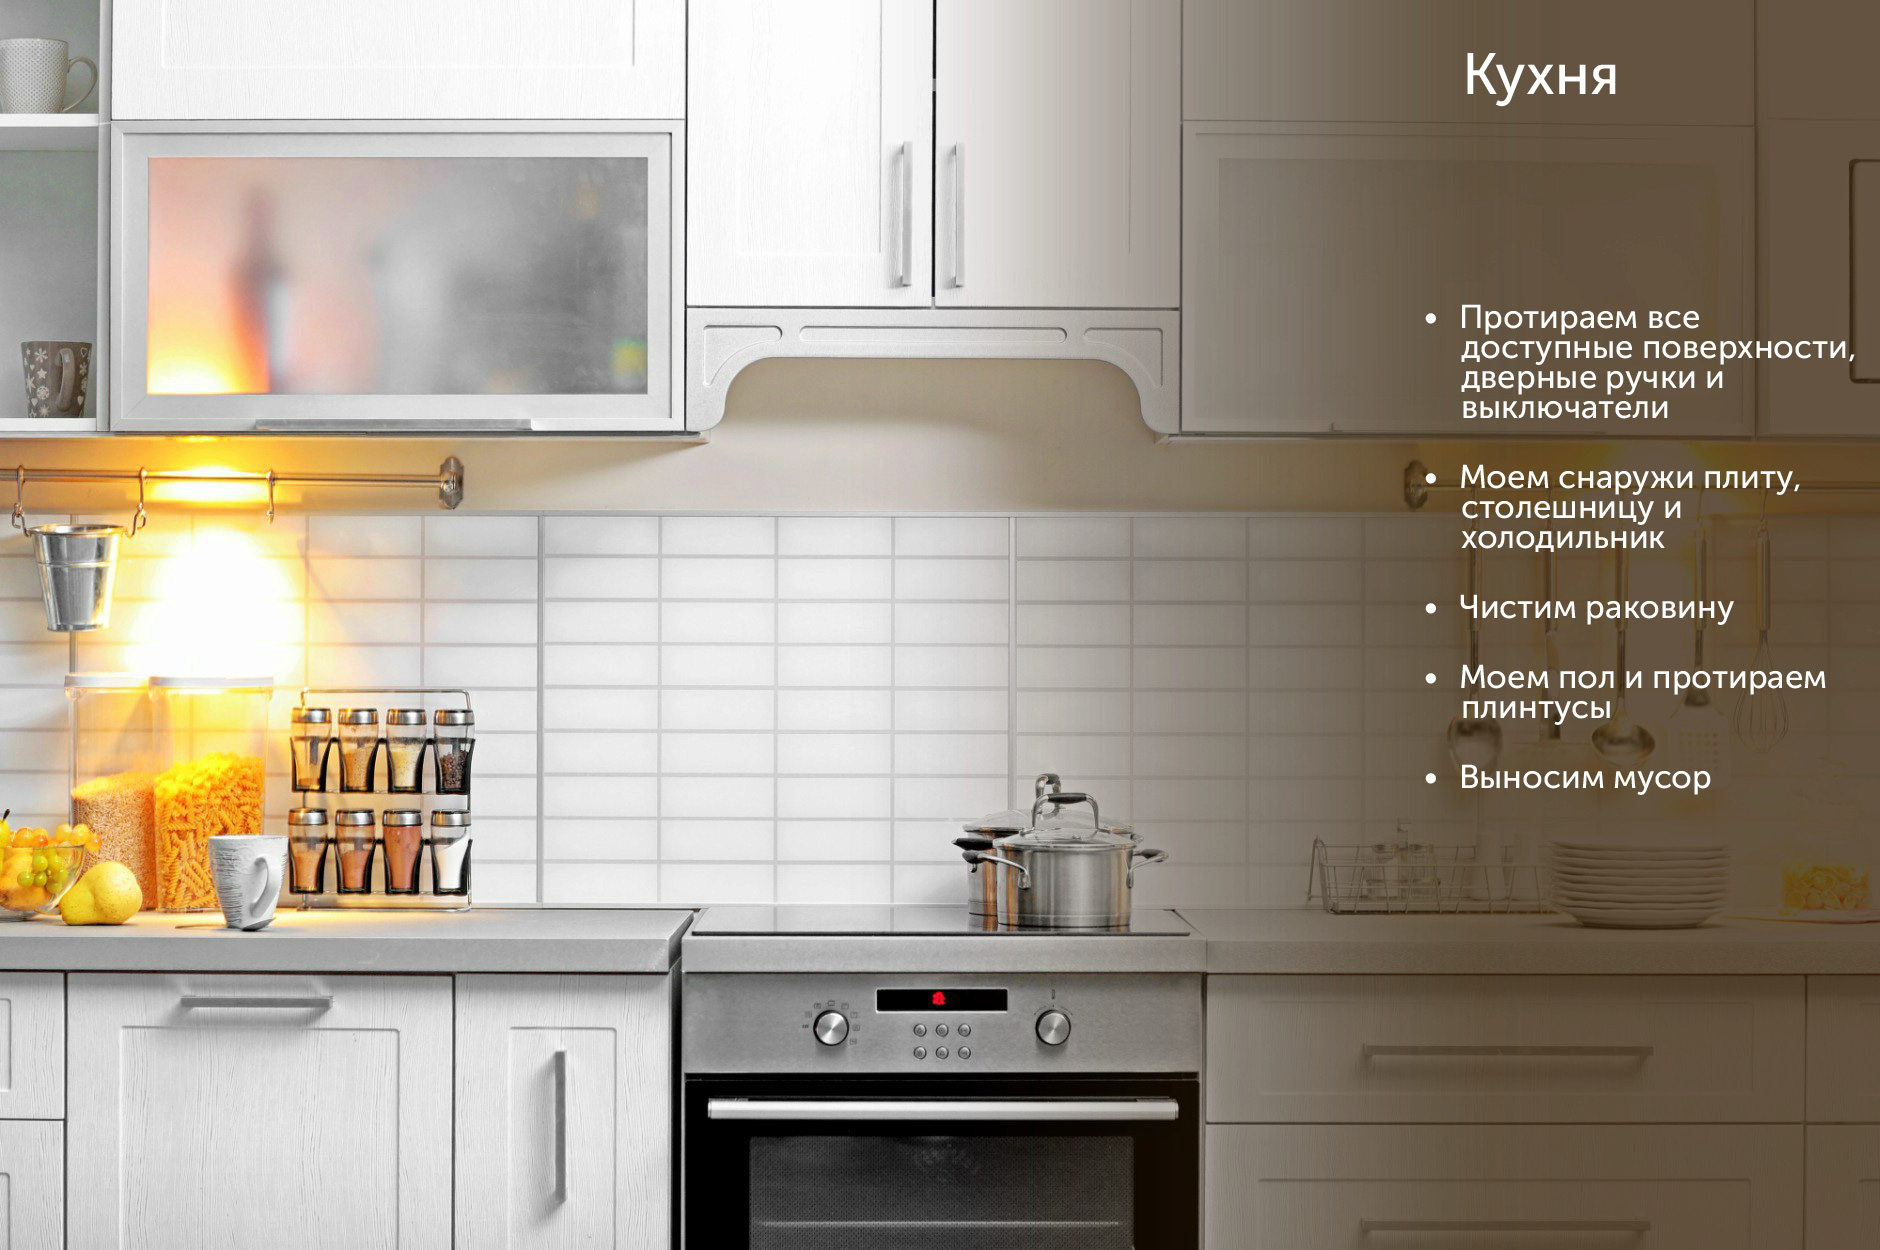
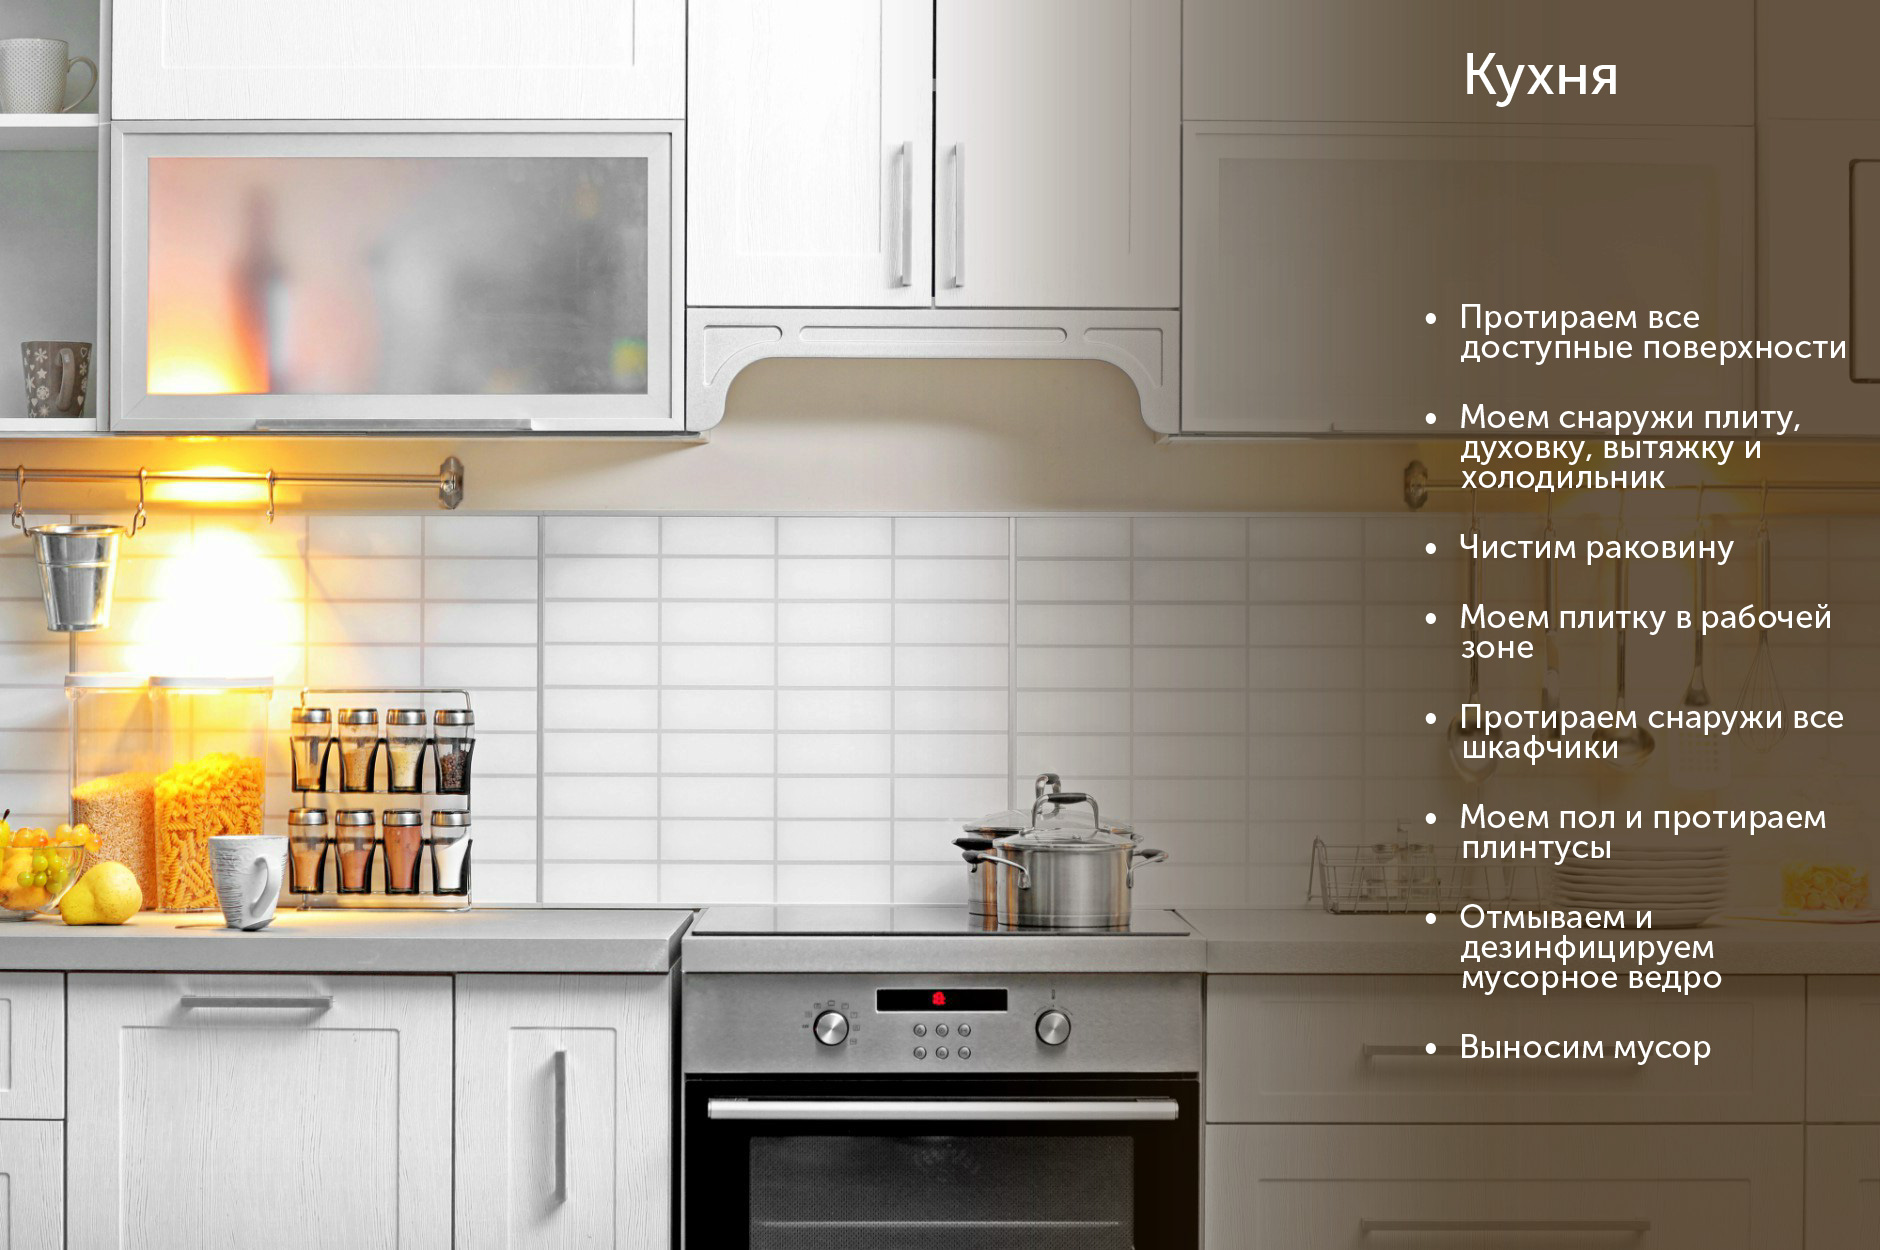
...

Changed region(s): [[0.7713, 0.2496, 0.9872, 0.6864], [0.7713, 0.7176, 0.9255, 0.8424]]

diff --git a/index.html b/index.html
@@ -249,11 +249,10 @@
             </div>
             <div id="slider_text">
                 <ul class="item" data-name="1">
-                    <li>Протираем все доступные поверхности, дверные ручки и выключатели</li>
+                    <li>Протираем все доступные поверхности, в т.ч. батареи, люстры, шкафы, картины, фотографии и проч.</li>
                     <li>Чистим зеркала и стеклянные поверхности</li>
-                    <li>Складываем одежду и расставляем вещи</li>
-                    <li>Застилаем кровать</li>
-                    <li>Моем пол, протираем плинтусы и пылесосим ковёр</li>
+                    <li>Пылесосим ковры</li>
+                    <li>Моем пол и протираем плинтусы</li>
                     <li>Убираем мусор</li>
                 </ul>
                 <ul class="item" data-name="2">
@@ -264,19 +263,23 @@
                     <li>Убираем мусор</li>
                 </ul>
                 <ul class="item" data-name="3">
-                    <li>Протираем все доступные поверхности, дверные ручки и выключатели</li>
+                    <li>Протираем все доступные поверхности</li>
                     <li>Моем и дезинфицируем унитаз</li>
                     <li>Моем ванную (душевую кабину)</li>
+                    <li>Чистим плитку</li>
                     <li>Чистим зеркала и стеклянные поверхности</li>
                     <li>Моем пол, протираем плинтусы и пылесосим коврики</li>
                     <li>Протираем шкафы с внешней стороны</li>
                     <li>Выносим мусор</li>
                 </ul>
                 <ul class="item" data-name="4">
-                    <li>Протираем все доступные поверхности, дверные ручки и выключатели</li>
-                    <li>Моем снаружи плиту, столешницу и холодильник</li>
+                    <li>Протираем все доступные поверхности</li>
+                    <li>Моем снаружи плиту, духовку, вытяжку и холодильник</li>
                     <li>Чистим раковину</li>
+                    <li>Моем плитку в рабочей зоне</li>
+                    <li>Протираем снаружи все шкафчики</li>
                     <li>Моем пол и протираем плинтусы</li>
+                    <li>Отмываем и дезинфицируем мусорное ведро</li>
                     <li>Выносим мусор</li>
                 </ul>
             </div>

diff --git a/js/6_scripts.js b/js/6_scripts.js
@@ -78,7 +78,7 @@ var handler = onVisibilityChange($('#slider_buttons'), function(visible) {
                 next = current + 1;
             }
             $('#slider_buttons .item[data-name="' + next + '"]').trigger('auto_click');
-        }, 5500);
+        }, 6500);
     } else {
         clearInterval(intervalID);
     }
